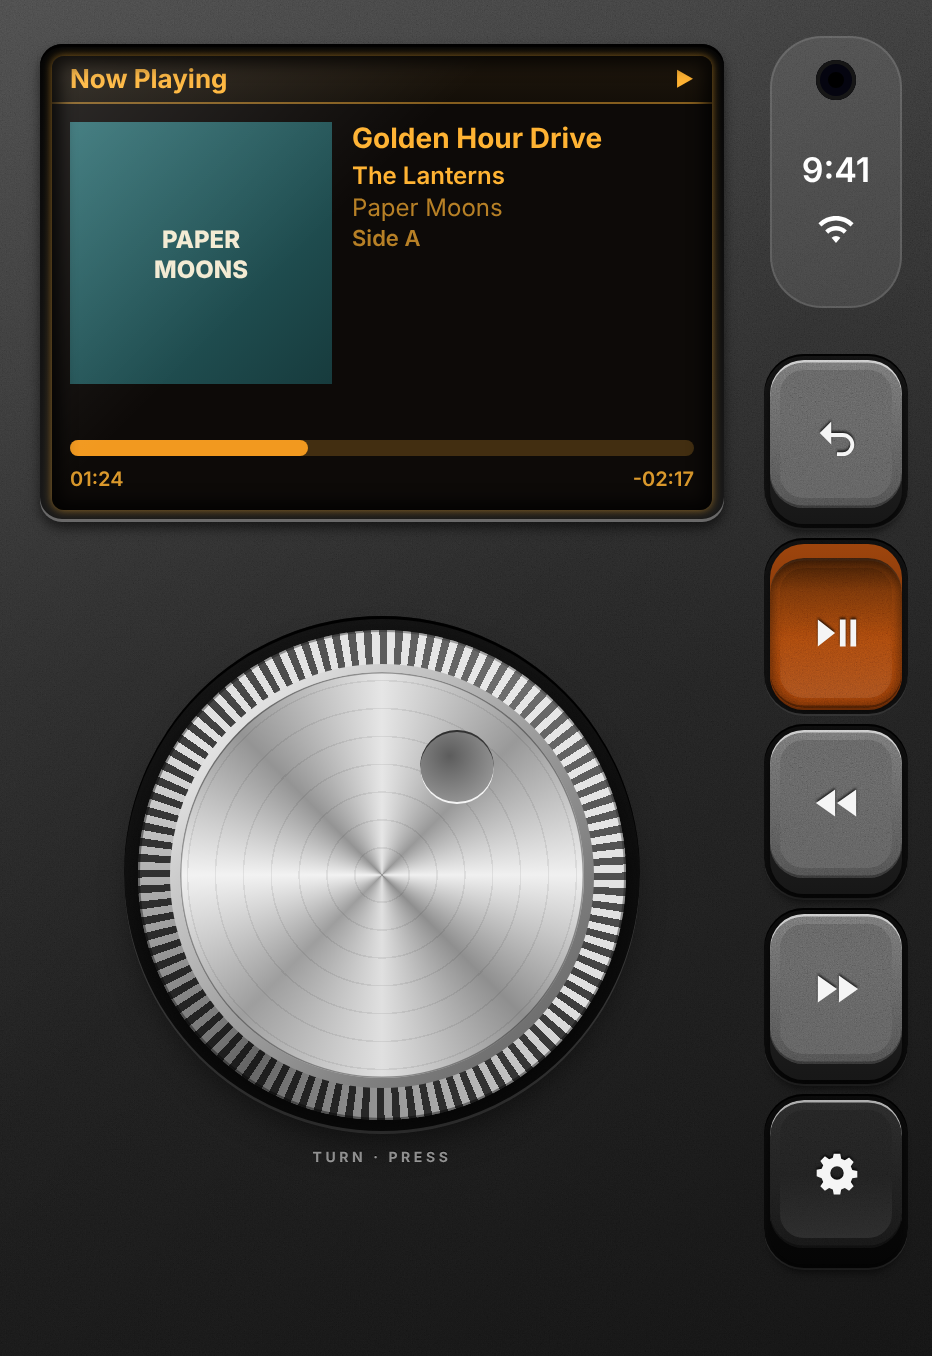
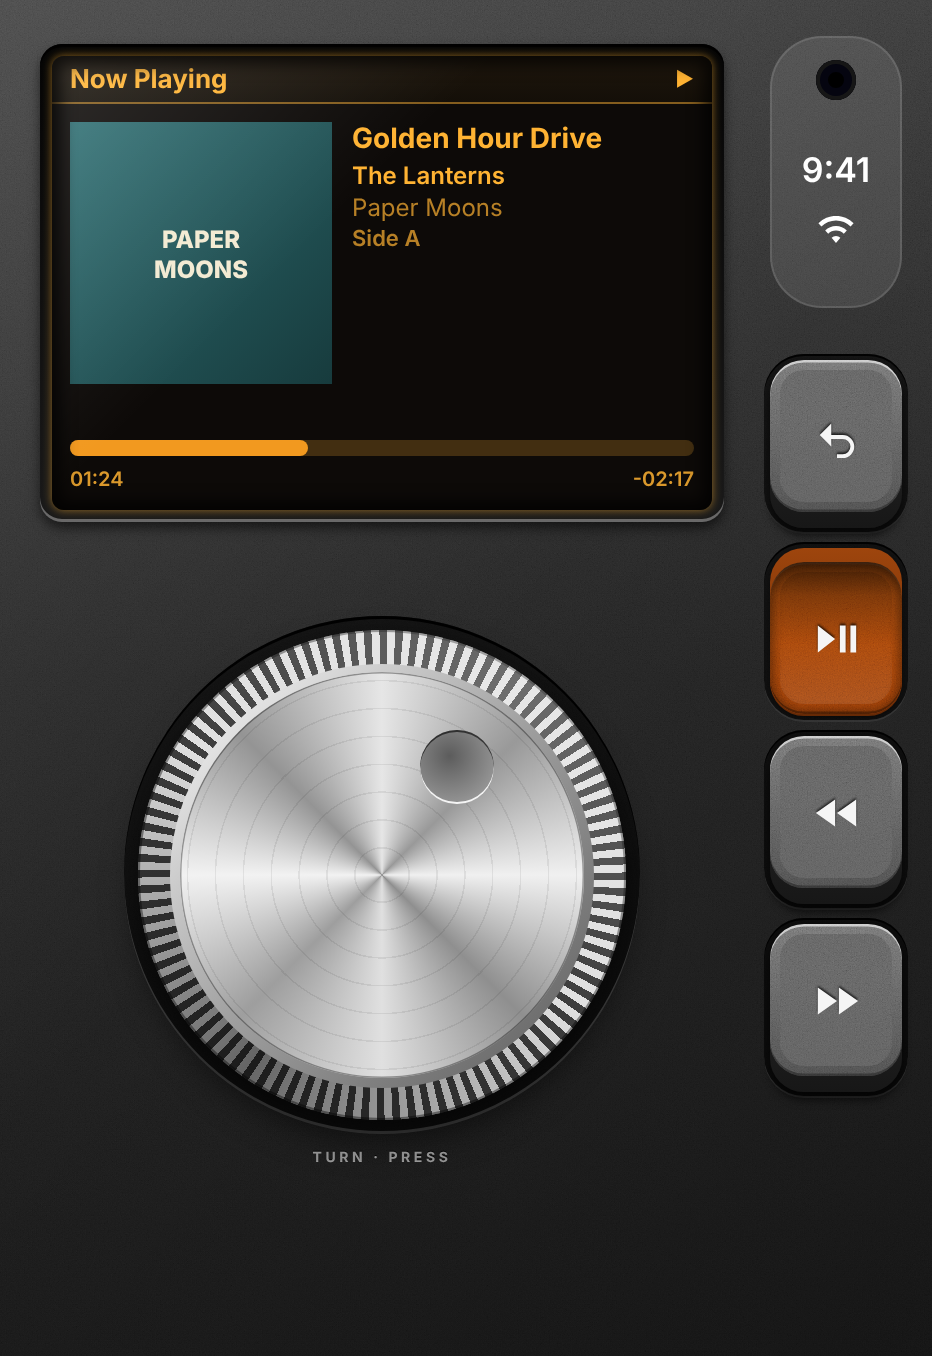
Drop the settings key from the MP3 player; add control option mock-ups
Settings is already in the main menu, so the MP3 player now has four
keys: back, play/pause, previous and next.

Claude-Session: https://claude.ai/code/session_015CNmSEpanpmujmbPK8yXHv

diff --git a/TapeDeck/MenuPlayerView.swift b/TapeDeck/MenuPlayerView.swift
@@ -8,7 +8,7 @@ import SwiftUI
 /// It comes in two forms.
 ///
 /// The jog dial player is the one people choose in the app. A knurled metal
-/// dial turns to scroll and presses to select, the keys sit apart from it in
+/// dial turns to scroll and presses to select, four keys sit apart from it in
 /// the same column as the tape player's, and the display is amber on black.
 ///
 /// The click wheel player is kept for personal builds only (see
@@ -214,12 +214,13 @@ struct MenuPlayerView: View {
     }
 
     /// The keys, in the same place and the same moulding as the tape
-    /// player's: back, play/pause, previous, next and settings.
+    /// player's: back, play/pause, previous and next. Settings is a line in
+    /// the main menu, so it needs no key of its own.
     private func keyColumn(insets: EdgeInsets, rail: Bool, leading: Bool, height: CGFloat) -> some View {
         let top = rail ? railStatusHeight : insets.top + 12
         let bottom = insets.bottom + 12
         let width = rail ? max(insets.leading, insets.trailing) : stripWidth + insets.trailing
-        let keyHeight = min(84, max(36, (height - top - bottom - 4 * keyGap) / 5))
+        let keyHeight = min(84, max(36, (height - top - bottom - 3 * keyGap) / 4))
         let inner = max(0, width - railKeyWidth - railOuterMargin)
         return VStack(spacing: keyGap) {
             if !rail { Spacer(minLength: 0) }
@@ -238,12 +239,6 @@ struct MenuPlayerView: View {
                     height: keyHeight, showsLabel: false, corner: 17, symbolSize: 23,
                     onDown: { model.seekKeyDown(forward: true) },
                     onUp: { model.seekKeyUp(forward: true) })
-            TapeKey(symbol: "gearshape.fill", label: "Settings", dark: true,
-                    height: keyHeight, showsLabel: false, corner: 17, symbolSize: 23,
-                    onDown: {
-                        Haptics.keyDown()
-                        showSettings = true
-                    })
             Spacer(minLength: 0)
         }
         .frame(width: rail ? railKeyWidth : stripWidth - 16)

diff --git a/README.md b/README.md
@@ -27,7 +27,7 @@ The first time it opens, Cassety shows a four page introduction: what it is, how
 The closed phone can be either, chosen in Settings or the introduction. Both play the same tapes, with the same two sides, flipping and mixtapes.
 
 * Tape player: the cassette and its reels behind a window, with the volume fader and keys beside it.
-* MP3 player: a display of menus and a jog dial. Turn the dial to scroll and press it to choose. While a song is showing, the dial changes the volume and a press plays or pauses. The keys beside it are back, play/pause, previous, next and settings; hold previous or next to wind the tape. Menus: Music (Mixtapes, Playlists, Albums), Now Playing, Flip Tape and Settings.
+* MP3 player: a display of menus and a jog dial. Turn the dial to scroll and press it to choose. While a song is showing, the dial changes the volume and a press plays or pauses. The four keys beside it are back, play/pause, previous and next; hold previous or next to wind the tape. Settings is in the main menu. Menus: Music (Mixtapes, Playlists, Albums), Now Playing, Flip Tape and Settings.
 
 The MP3 player is Cassety's own design: a knurled metal dial with no buttons on it, keys set apart in the same moulding as the tape player's, and an amber display. The dial is drawn as a solid object and turns under the thumb.
 
